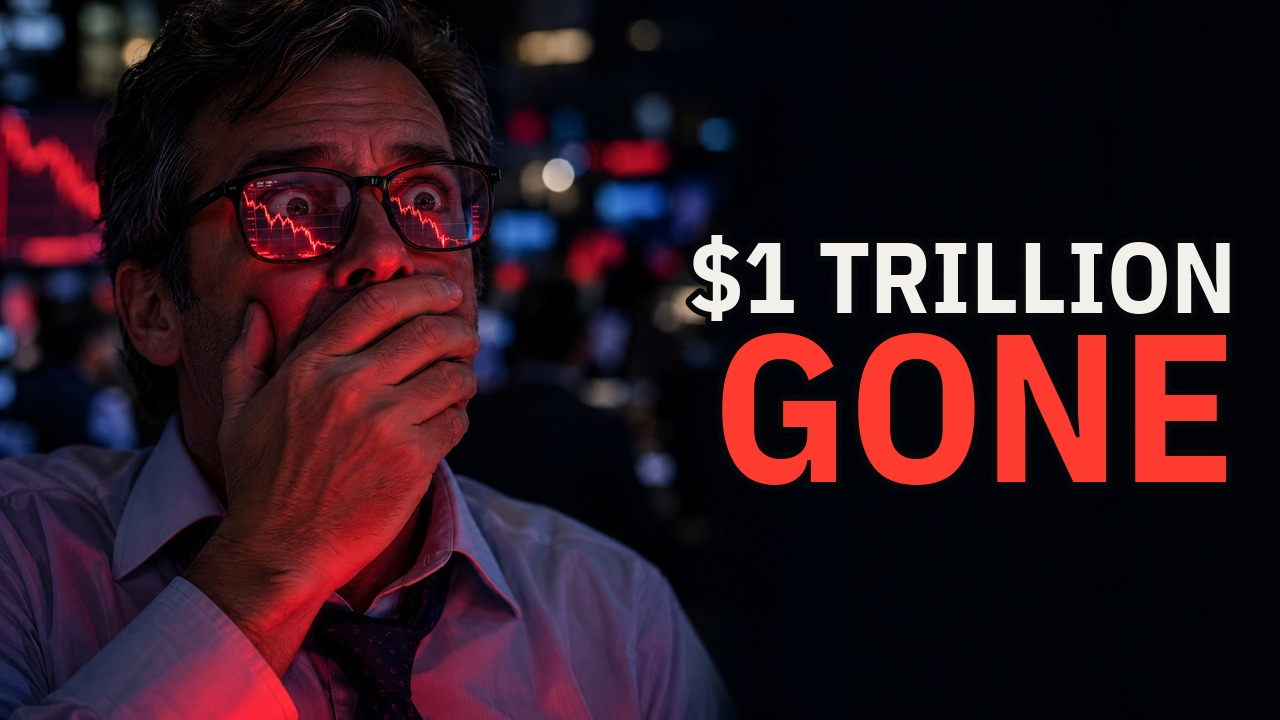
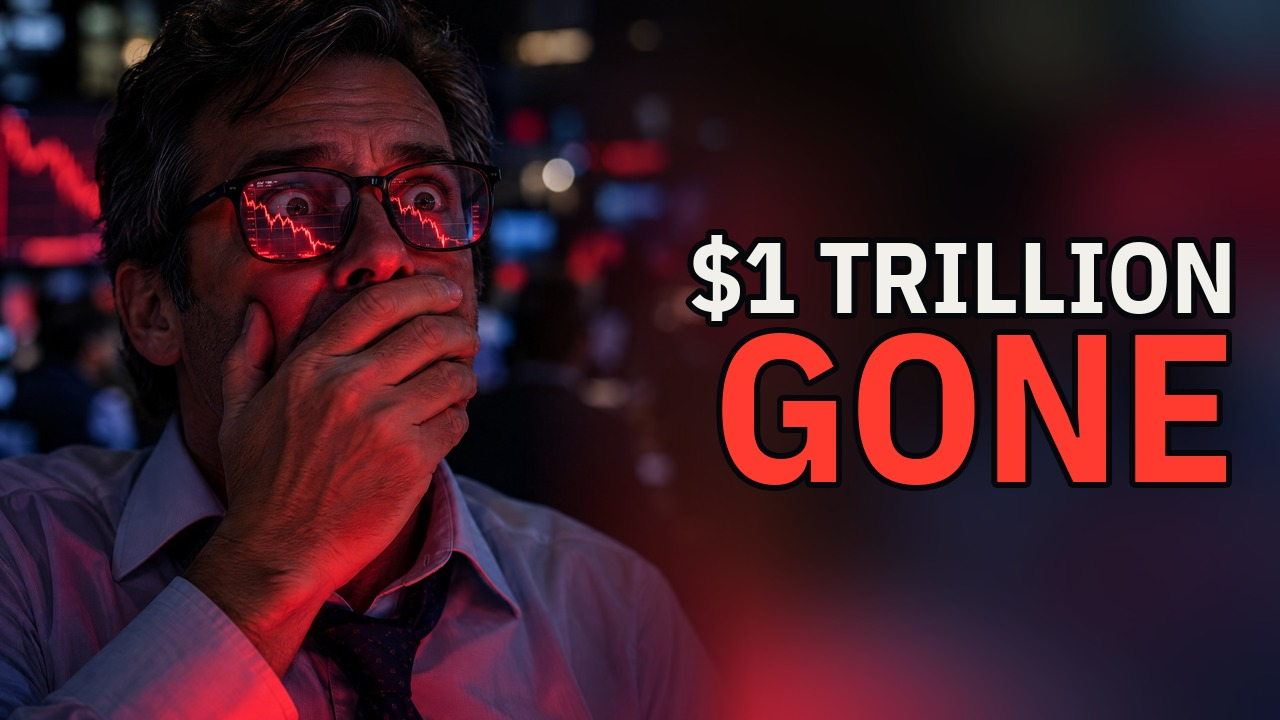
Invisible Cassette thumbnails: blurred (not black) text side
Claude-Session: https://claude.ai/code/session_01Wf1xt6WoMokeBswM9raokm

diff --git a/effectcraft/invisible-cassette/tools/thumbnails_user.py b/effectcraft/invisible-cassette/tools/thumbnails_user.py
@@ -3,11 +3,11 @@
 
 Usage: python3 -I tools/thumbnails_user.py      (run from effectcraft/invisible-cassette)
 Three words or fewer each, in the film's type (IBM Plex Sans Condensed Bold) and colours, placed in each
-picture's dark empty side with a soft shadow gradient behind it; 1280x720 JPEG plus a 200 px mobile check.
+picture's empty side, which is blurred (not darkened) so the words sit on soft colour; 1280x720 JPEG plus a 200 px mobile check.
 """
 import os
 import numpy as np
-from PIL import Image, ImageDraw, ImageFont
+from PIL import Image, ImageDraw, ImageFilter, ImageFont
 
 HERE = os.path.dirname(os.path.dirname(os.path.abspath(__file__)))
 SRC, OUT = os.path.join(HERE, "thumbnails/user_src"), os.path.join(HERE, "thumbnails")
@@ -31,6 +31,25 @@ def shade(img, side, strength=0.55, width=0.5):
     return Image.fromarray(a.clip(0, 255).astype(np.uint8))
 
 
+def blur_side(img, side, width=0.5, fill=False, darken=0.18):
+    """the text side becomes a soft blur of the picture (review note: blurry, not black). With fill=True the
+    side is empty black in the source, so it is filled with an enlarged, heavily blurred copy of the subject half."""
+    if fill:
+        # the subject half, stretched across the frame and mirrored so its colours continue past the seam
+        half = img.crop((0, 0, W // 2, H)) if side == "right" else img.crop((W // 2, 0, W, H))
+        bg = half.resize((W, H), Image.LANCZOS)
+        if side == "right": bg = bg.transpose(Image.FLIP_LEFT_RIGHT)
+        bg = bg.filter(ImageFilter.GaussianBlur(45))
+    else:
+        bg = img.filter(ImageFilter.GaussianBlur(22))
+    x = np.linspace(0, 1, W)
+    edge = 1 - width                                     # where the blur starts, with a soft 18 % transition
+    m = np.clip((x - edge + 0.09) / 0.18, 0, 1) if side == "right" else np.clip((width + 0.09 - x) / 0.18, 0, 1)
+    m = m[None, :, None]
+    a = np.asarray(img, float) * (1 - m) + np.asarray(bg, float) * m * (1 - darken)
+    return Image.fromarray(a.clip(0, 255).astype(np.uint8))
+
+
 def fit(text, size, maxw):
     while True:
         f = ImageFont.truetype(BOLD, size); bb = f.getbbox(text)
@@ -51,8 +70,8 @@ def words(img, lines, x, y_mid, align, maxw):
     return img
 
 
-def make(out, src, lines, side, y_mid, maxw, strength=0.55, src_dir=None):
-    img = shade(load(src, src_dir), side, strength)
+def make(out, src, lines, side, y_mid, maxw, strength=0.55, src_dir=None, fill=False, width=0.5):
+    img = blur_side(load(src, src_dir), side, width=width, fill=fill)
     x, align = (W - 44, "right") if side == "right" else (44, "left")
     img = words(img, lines, x, y_mid, align, maxw)
     p = os.path.join(OUT, out); img.save(p, quality=92, optimize=True)
@@ -62,8 +81,8 @@ def make(out, src, lines, side, y_mid, maxw, strength=0.55, src_dir=None):
 
 if __name__ == "__main__":
     # 1 · the hooded machine at the laptop: the words sit over the dark laptop lid, right of the hands
-    make("thumb_user1_nobody_decided.jpg", "idea1.jpg", [("NOBODY", 160, AMBER), ("DECIDED", 160, RED)], "right", 540, 520, 0.45)
+    make("thumb_user1_nobody_decided.jpg", "idea1.jpg", [("NOBODY", 160, AMBER), ("DECIDED", 160, RED)], "right", 540, 520, 0.45, width=0.38)
     # 2 · the machine at the breaker: the empty dark right half
-    make("thumb_user2_no_off_switch.jpg", "idea2.jpg", [("NO OFF", 170, WHITE), ("SWITCH", 170, RED)], "right", 360, 540)
+    make("thumb_user2_no_off_switch.jpg", "idea2.jpg", [("NO OFF", 170, WHITE), ("SWITCH", 170, RED)], "right", 360, 540, width=0.42)
     # 3 · the machine holding Earth: the starfield on the right
-    make("thumb_user3_too_slow.jpg", "idea3.jpg", [("HUMANS:", 150, WHITE), ("TOO SLOW", 150, RED)], "right", 360, 430)
+    make("thumb_user3_too_slow.jpg", "idea3.jpg", [("HUMANS:", 150, WHITE), ("TOO SLOW", 150, RED)], "right", 360, 430, width=0.36)

diff --git a/effectcraft/invisible-cassette/tools/thumbnails_claude.py b/effectcraft/invisible-cassette/tools/thumbnails_claude.py
@@ -11,8 +11,8 @@ from thumbnails_user import make, AMBER, RED, WHITE, HERE
 
 SRC = os.path.join(HERE, "thumbnails/claude_src")
 # A · the freeze: a trader's shock, the crash in his glasses (May 6, 2010)
-make("thumb_claude_a_trillion_gone.jpg", "freeze.jpg", [("$1 TRILLION", 120, WHITE), ("GONE", 210, RED)], "right", 360, 560, src_dir=SRC)
+make("thumb_claude_a_trillion_gone.jpg", "freeze.jpg", [("$1 TRILLION", 120, WHITE), ("GONE", 210, RED)], "right", 360, 560, src_dir=SRC, fill=True, width=0.5)
 # B · faster than a blink: the crash reflected in a human eye (machines act inside 100-400 ms)
-make("thumb_claude_b_faster_than_you.jpg", "blink.jpg", [("FASTER", 170, WHITE), ("THAN YOU", 170, RED)], "right", 360, 560, src_dir=SRC)
+make("thumb_claude_b_faster_than_you.jpg", "blink.jpg", [("FASTER", 170, WHITE), ("THAN YOU", 170, RED)], "right", 360, 560, src_dir=SRC, fill=True, width=0.5)
 # C · the override: a hand that can't reach the emergency stop (the kill-switch chapter)
-make("thumb_claude_c_too_late.jpg", "override.jpg", [("TOO", 190, WHITE), ("LATE", 230, RED)], "right", 360, 480, src_dir=SRC)
+make("thumb_claude_c_too_late.jpg", "override.jpg", [("TOO", 190, WHITE), ("LATE", 230, RED)], "right", 360, 480, src_dir=SRC, fill=True, width=0.5)
